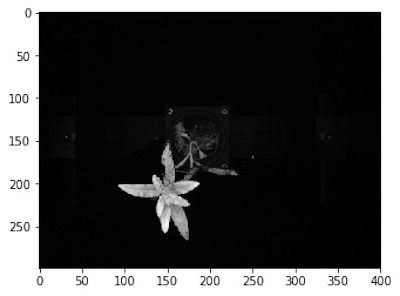
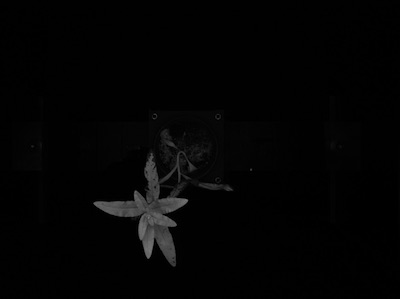
Add background color/plot option

diff --git a/plantcv/plantcv/pseudocolor.py b/plantcv/plantcv/pseudocolor.py
@@ -8,16 +8,19 @@ from plantcv.plantcv import plot_image
 from plantcv.plantcv import fatal_error
 
 
-def pseudocolor(gray_img, mask=None, cmap=None, min_value=0, max_value=255, obj=None, dpi=None, axes=True, path="."):
+def pseudocolor(gray_img, mask=None, cmap=None, background="image", min_value=0, max_value=255, obj=None, dpi=None,
+                axes=True, path="."):
     """Pseudocolor any grayscale image to custom colormap
 
         Inputs:
         gray_img    = grayscale image data
         mask        = binary mask
         cmap        = colormap
+        background  = background color/type. Options are "image" (gray_img), "white", or "black".
+                      A mask must be supplied
         min_value   = minimum value for range of interest
         max_value   = maximum value for range of interest
-        obj         = if provided, the pseudocolored image gets cropped down to the region of interst
+        obj         = if provided, the pseudocolored image gets cropped down to the region of interest
         dpi         = dots per inch
         axes        = if False then x- and y-axis won't be displayed
         path        = path for location for saving the image
@@ -28,6 +31,7 @@ def pseudocolor(gray_img, mask=None, cmap=None, min_value=0, max_value=255, obj=
         :param gray_img: numpy.ndarray
         :param mask: numpy.ndarray
         :param cmap: str
+        :param background: str
         :param min_value: int
         :param max_value: int
         :param bins: int
@@ -80,13 +84,34 @@ def pseudocolor(gray_img, mask=None, cmap=None, min_value=0, max_value=255, obj=
                                       value=(0, 0, 0))
 
         # Apply the mask
-        masked_img = cv2.bitwise_and(gray_img, gray_img, mask=mask)
+        masked_img = np.ma.array(gray_img, mask=~mask.astype(np.bool))
 
-        # Convert black pixels from 0 to np.nan
-        masked_img = np.where(masked_img == 0, np.nan, masked_img)
+        # Set the background color or type
+        if background == "black":
+            # Background is all zeros
+            bkg_img = np.zeros(np.shape(gray_img), dtype=np.uint8)
+            # Use the gray cmap for the background
+            bkg_cmap = "gray"
+        elif background == "white":
+            # Background is all 255 (white)
+            bkg_img = np.zeros(np.shape(gray_img), dtype=np.uint8)
+            bkg_img += 255
+            # Use the reverse gray cmap for the background
+            bkg_cmap = "gray_r"
+        elif background == "image":
+            # Set the background to the inpute gray image
+            bkg_img = gray_img
+            # Use the gray cmap for the background
+            bkg_cmap = "gray"
+        else:
+            fatal_error(
+                "Background type {0} is not supported. Please use 'white', 'black', or 'image'.".format(background))
 
         # Pseudocolor the image
-        pseudo_img1 = plt.imshow(masked_img, cmap=cmap)
+        # Plot the background first
+        pseudo_img1 = plt.imshow(bkg_img, cmap=bkg_cmap)
+        # Overlay the masked grayscale image with the user input colormap
+        plt.imshow(masked_img, cmap=cmap)
 
         # Include image title
         plt.title('Pseudocolored image')  # + os.path.splitext(filename)[0])

diff --git a/docs/pseudocolor.md b/docs/pseudocolor.md
@@ -3,20 +3,21 @@
 This function pseudocolors any grayscale image to custom colormap. An optional mask can leave background out in the
 pseudocolored image. Additionally, optional maximum and minimum values can be specified.
 
-**plantcv.pseudocolor**(*gray_img, mask=None, cmap=None, min_value=0, max_value=255, obj=None, dpi=None, axes=True, path="."*)
+**plantcv.pseudocolor**(*gray_img, mask=None, background="image", cmap=None, min_value=0, max_value=255, obj=None, dpi=None, axes=True, path="."*)
 
 **returns** pseudocolored image that can be saved with `pcv.print_image`
 
 - **Parameters:**
-    - gray_img  - Grayscale image data
-    - mask      - Binary mask made from selected contours
-    - cmap      - Custom colormap, see [here](https://matplotlib.org/tutorials/colors/colormaps.html) for tips on how to choose a colormap in Matplotlib.
-    - min_value - Minimum value (optional) for range of interest.
-    - max_value - Maximum value (optional) for range of interest.
-    - obj       - Single or grouped contour object (optional), if provided the pseudocolored image gets cropped down to the region of interest.
-    - dpi       - Dots per inch for image if printed out (optional, if dpi=None then the default is set to 100 dpi).
-    - axes      - If False then x- and y-axis won't be displayed (default axes=True).
-    - path      - Path giving location the image will get saved.
+    - gray_img   - Grayscale image data
+    - mask       - Binary mask made from selected contours
+    - background - background color/type. Options are "image" (gray_img), "white", or "black". A mask must be supplied.
+    - cmap       - Custom colormap, see [here](https://matplotlib.org/tutorials/colors/colormaps.html) for tips on how to choose a colormap in Matplotlib.
+    - min_value  - Minimum value (optional) for range of interest.
+    - max_value  - Maximum value (optional) for range of interest.
+    - obj        - Single or grouped contour object (optional), if provided the pseudocolored image gets cropped down to the region of interest.
+    - dpi        - Dots per inch for image if printed out (optional, if dpi=None then the default is set to 100 dpi).
+    - axes       - If False then x- and y-axis won't be displayed (default axes=True).
+    - path       - Path giving location the image will get saved.
 - **Context:**
     - Used to pseudocolor any grayscale image to custom colormap
 - **Example use:**
@@ -41,19 +42,20 @@ pcv.params.debug='plot'
 pseudo_img = pcv.pseudocolor(gray_img=img, mask=None, cmap='viridis', min_value=0, max_value=255, path='.')
 
 # Pseudocolor the same image but include the mask and limit the range of values
-pseudo_img_masked = pcv.pseudocolor(gray_img=img, mask=mask, cmap='viridis', min_value=30, max_value=200, path='.')
+pseudo_img_masked = pcv.pseudocolor(gray_img=img, mask=mask, background="white", cmap='viridis', min_value=30, max_value=200, path='.')
 
 # Save the masked and pseudocolored image
 pcv.print_image(pseudo_img_masked, 'nir_tv_z300_L1_pseudocolored.png')
 
+# Pseudocolor the masked area and plot on the grayscale background
+pseudo_img_on_input = pcv.pseudocolor(gray_img=img, mask=mask, background="image", cmap="viridis")
+
 # Print out a pseudocolored image with cropping enabled, axes disabled, and higher dpi value.
 pcv.params.debug='print'
-pseudo_crop_no_axes = pcv.pseudocolor(gray_img=img, mask=mask, obj=obj, cmap='viridis', dpi=200, axes=False)
+pseudo_crop_no_axes = pcv.pseudocolor(gray_img=img, mask=mask, background=="white", obj=obj, cmap='viridis', dpi=200, axes=False)
 
-# If a black background is preferred over white
-cmap = matplotlib.cm.viridis # or whatever you want
-cmap.set_bad("black") # or "white" of course
-pseudo_img_black_bkgd = pcv.pseudocolor(gray_img=img, mask=mask, cmap=cmap)
+# Use a black background instead
+pseudo_img_black_bkgd = pcv.pseudocolor(gray_img=img, mask=mask, background="black", cmap=cmap)
 ```
 
 
@@ -61,10 +63,12 @@ pseudo_img_black_bkgd = pcv.pseudocolor(gray_img=img, mask=mask, cmap=cmap)
 
 ![Screenshot](img/documentation_images/pseudocolor/pseudo_nomask.jpg)
 
-
 **Pseudocolored and Masked Image**
 
 ![Screenshot](img/documentation_images/pseudocolor/pseudo_img.jpg)
+
+**Pseudocolored, Plotted on Input Image**
+![Screenshot](img/documentation_images/pseudocolor/pseudo_onimage.jpg)
 
 **Pseudocolored, Cropped, Disabled Axes Image**
 
